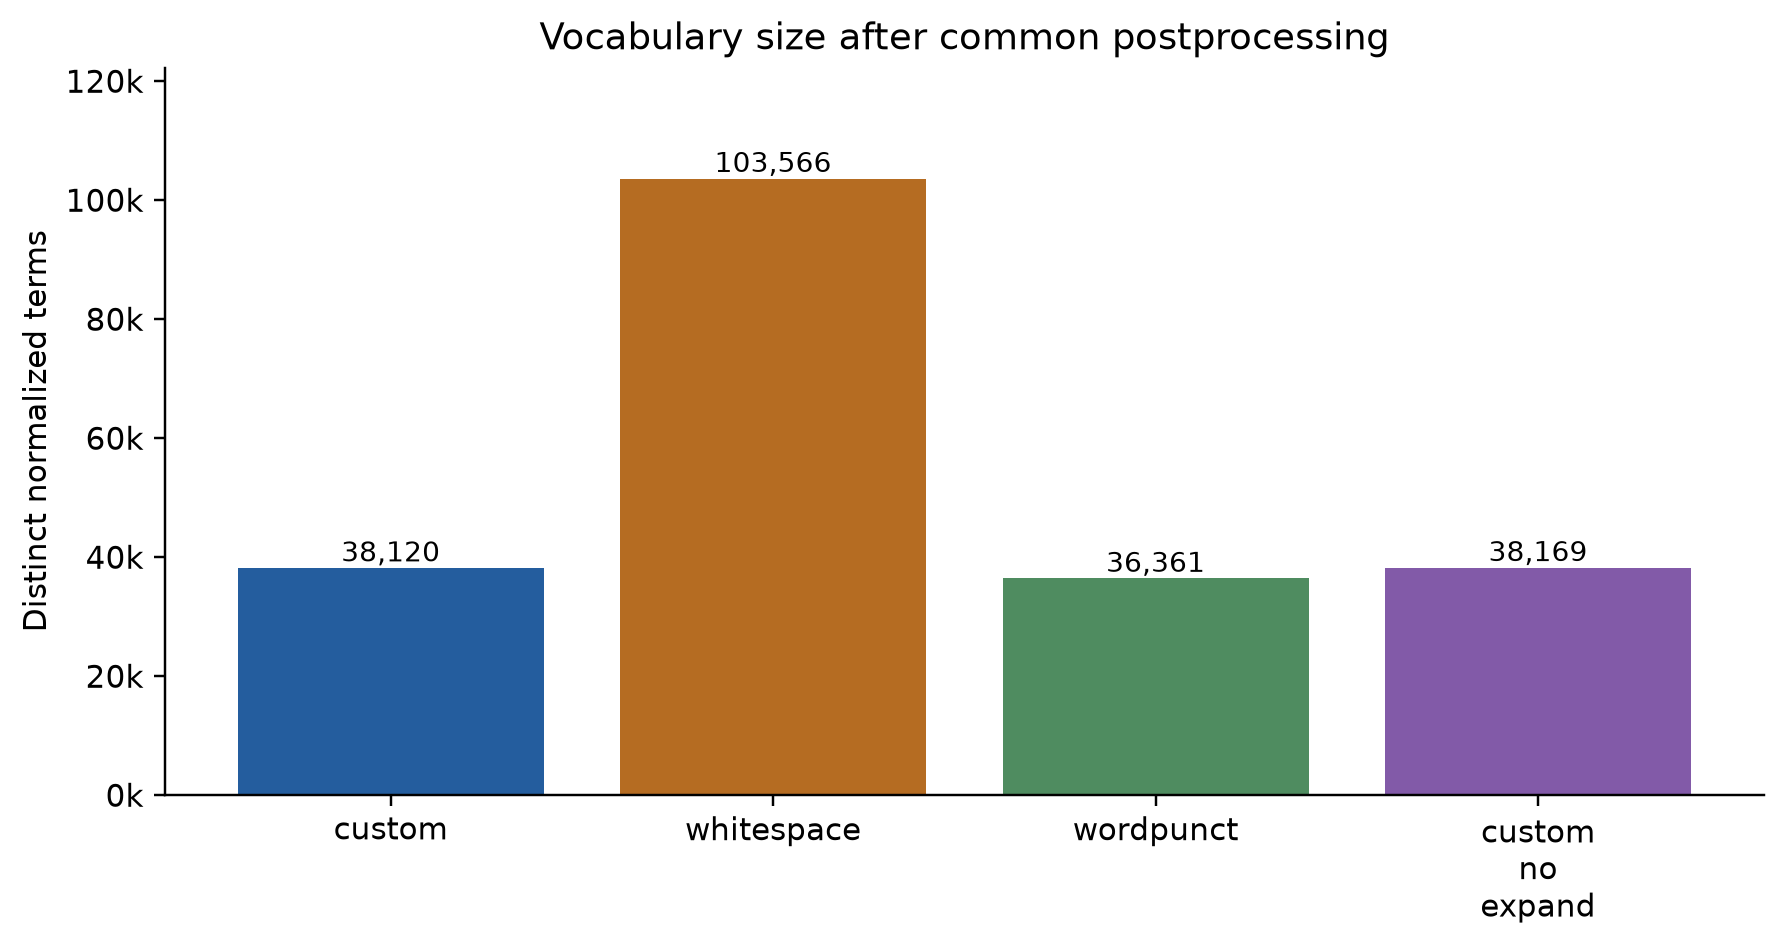
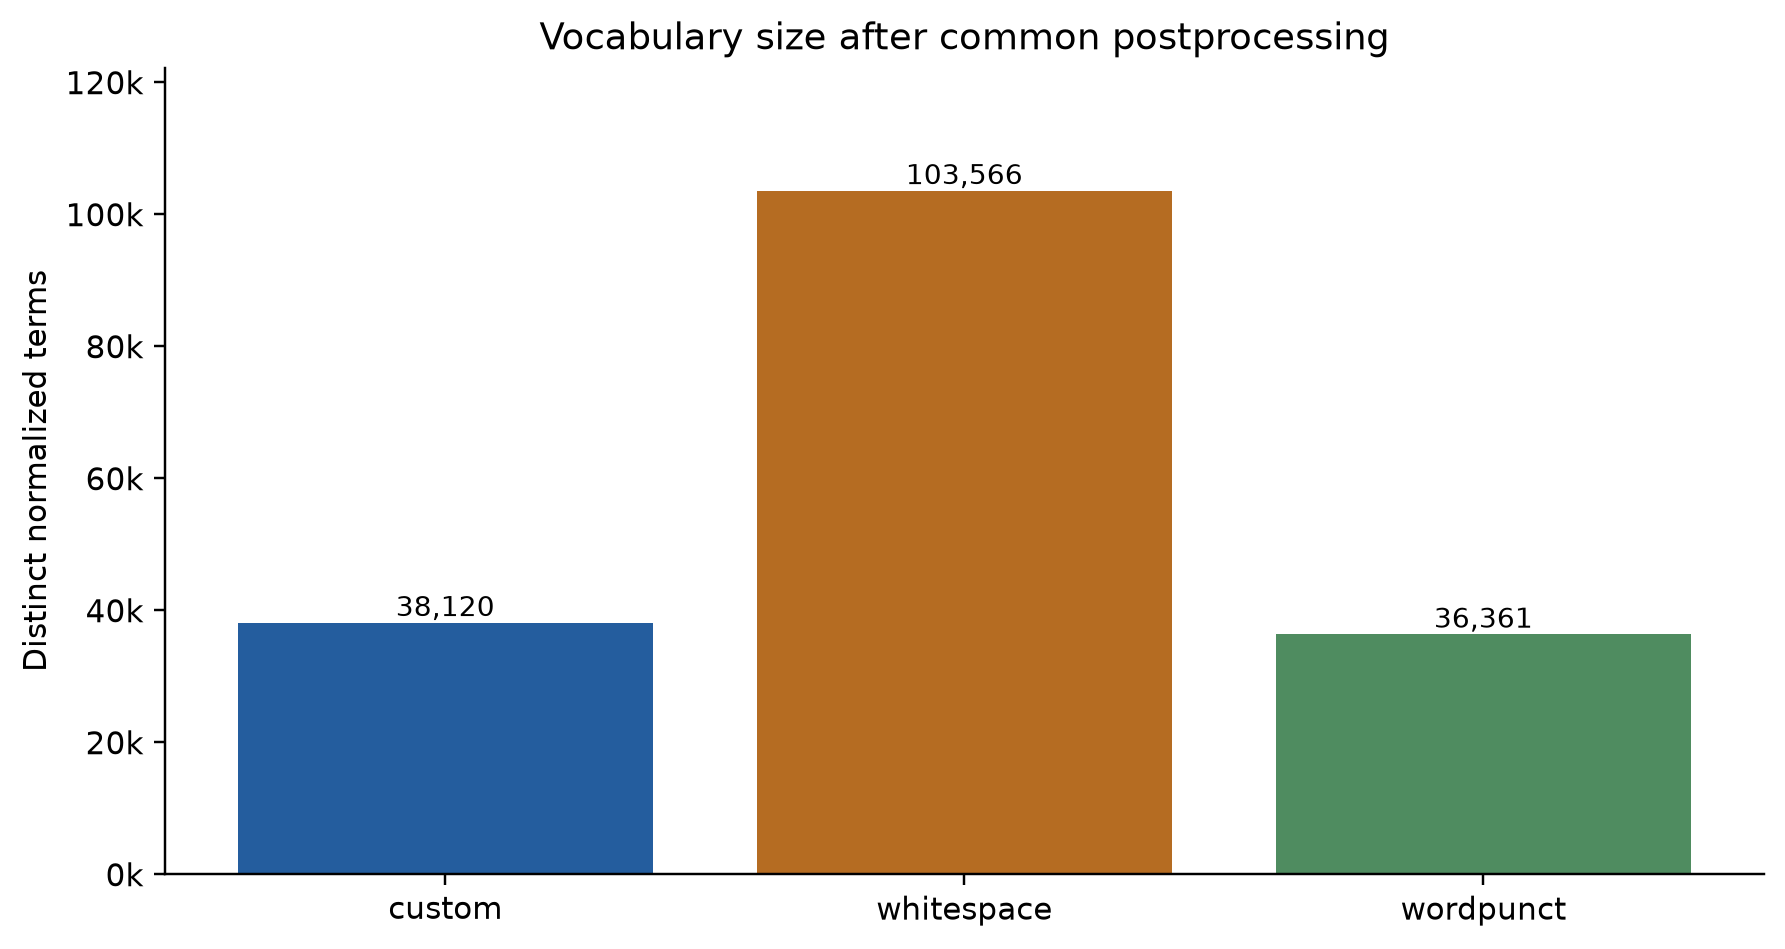
Treat contraction expansion as part of normalization

diff --git a/part1/run.py b/part1/run.py
@@ -24,7 +24,7 @@ from .boundary_cases import CASES
 
 
 ROOT = Path(__file__).resolve().parents[1]
-NAMES = ("custom", "whitespace", "wordpunct", "custom_no_expand")
+NAMES = ("custom", "whitespace", "wordpunct")
 
 
 def dump_json(path, data):
@@ -117,8 +117,7 @@ def build_examples(documents, tokenizers):
 
 
 def analyze(documents):
-    tokenizers = {name: get_tokenizer(name) for name in ("custom", "whitespace", "wordpunct")}
-    tokenizers["custom_no_expand"] = get_tokenizer("custom", expand_contractions=False)
+    tokenizers = {name: get_tokenizer(name) for name in NAMES}
     raw_counts = {name: Counter() for name in NAMES}
     frequencies = {name: Counter() for name in NAMES}
     token_counts, document_types = [], []
@@ -246,8 +245,7 @@ def main():
                    "normalization": "NFC, normalize apostrophes, lowercase lexical terms, expand clear contractions; retain numbers/emoji/emoticons; drop other punctuation-only tokens",
                    "stopwords": "retained", "stemming": False, "lemmatization": False,
                    "ambiguous_forms": "preserve 's, 'd and ain't; no POS/sense guessing",
-                   "baseline_fairness": "Same reviews, NFC and normalize_tokens function. Expansion requires a complete recognized word token.",
-                   "custom_no_expand": "Same custom boundaries and normalization, but contraction expansion disabled"},
+                   "baseline_fairness": "Same reviews, NFC and normalize_tokens function. Expansion requires a complete recognized word token."},
         "tokenizers": comparison, "zipf": zipf, "heaps": heaps,
         "heaps_seed_sensitivity": {"seeds": [r["seed"] for r in seed_results],
                                    "beta_min": min(r["beta"] for r in seed_results),

diff --git a/text_processing/api.py b/text_processing/api.py
@@ -27,15 +27,12 @@ class Tokenizer:
 
     name: str
     _surface_tokenizer: Callable[[str], list[str]] = field(repr=False)
-    expand_contractions: bool = True
 
     def surface_tokens(self, text: str) -> list[str]:
         return self._surface_tokenizer(prepare_text(text))
 
     def tokenize(self, text: str) -> list[str]:
-        return normalize_tokens(
-            self.surface_tokens(text), expand=self.expand_contractions
-        )
+        return normalize_tokens(self.surface_tokens(text))
 
 
 def available_tokenizers() -> tuple[str, ...]:
@@ -43,21 +40,19 @@ def available_tokenizers() -> tuple[str, ...]:
     return tuple(_SURFACE_TOKENIZERS)
 
 
-@lru_cache(maxsize=6)
-def get_tokenizer(
-    name: str = "custom", *, expand_contractions: bool = True
-) -> Tokenizer:
+@lru_cache(maxsize=3)
+def get_tokenizer(name: str = "custom") -> Tokenizer:
     """Select a boundary method; instances are immutable and safe to reuse."""
     if name not in _SURFACE_TOKENIZERS:
         raise ValueError(
             f"Unknown tokenizer {name!r}; choose from {available_tokenizers()}"
         )
-    return Tokenizer(name, _SURFACE_TOKENIZERS[name], expand_contractions)
+    return Tokenizer(name, _SURFACE_TOKENIZERS[name])
 
 
-def tokenize(text: str, *, expand_contractions: bool = True) -> list[str]:
+def tokenize(text: str) -> list[str]:
     """Default custom tokenizer, shared by statistics and search teammates."""
-    return get_tokenizer(expand_contractions=expand_contractions).tokenize(text)
+    return get_tokenizer().tokenize(text)
 
 
 def surface_tokens(text: str) -> list[str]:

diff --git a/tests/test_text_processing.py b/tests/test_text_processing.py
@@ -35,12 +35,11 @@ class SharedTokenizerTests(unittest.TestCase):
         self.assertEqual(get_tokenizer().surface_tokens(text), expected)
         self.assertEqual(tokenize(text), ["do", "not", "the", "best", "food", "😊"])
 
-    def test_expansion_setting_applies_to_factory_and_convenience_function(self):
-        text = "DON’T go"
-        expected = ["don't", "go"]
-        self.assertEqual(get_tokenizer(expand_contractions=False).tokenize(text), expected)
-        self.assertEqual(tokenize(text, expand_contractions=False), expected)
-        self.assertEqual(get_tokenizer().tokenize(text), ["do", "not", "go"])
+    def test_normalization_combines_case_apostrophes_and_contractions(self):
+        text = "DON’T eat CAFÉ food! 😊"
+        expected = ["do", "not", "eat", "café", "food", "😊"]
+        self.assertEqual(get_tokenizer().tokenize(text), expected)
+        self.assertEqual(tokenize(text), expected)
 
     def test_methods_share_unicode_and_case_normalization(self):
         for name in available_tokenizers():

diff --git a/text_processing/normalization.py b/text_processing/normalization.py
@@ -50,7 +50,7 @@ def expand_word(word: str) -> tuple[str, ...]:
 
 
 @lru_cache(maxsize=200_000)
-def normalize_token(token: str, expand: bool = True) -> tuple[str, ...]:
+def normalize_token(token: str) -> tuple[str, ...]:
     """Apply identical postprocessing to each tokenizer's complete tokens.
 
     Keep tokens containing letters/numbers and complete emoji/emoticons.
@@ -64,10 +64,10 @@ def normalize_token(token: str, expand: bool = True) -> tuple[str, ...]:
     token = token.lower()
     if not HAS_LETTER_OR_NUMBER.search(token):
         return ()
-    if expand and WORD_PATTERN.fullmatch(token):
+    if WORD_PATTERN.fullmatch(token):
         return expand_word(token)
     return (token,)
 
 
-def normalize_tokens(tokens: list[str], *, expand: bool = True) -> list[str]:
-    return [term for token in tokens for term in normalize_token(token, expand)]
+def normalize_tokens(tokens: list[str]) -> list[str]:
+    return [term for token in tokens for term in normalize_token(token)]

diff --git a/part1/__main__.py b/part1/__main__.py
@@ -10,11 +10,10 @@ from text_processing import available_tokenizers, get_tokenizer
 def main():
     parser = argparse.ArgumentParser(description=__doc__)
     parser.add_argument("--text", help="Review/query text; otherwise read standard input")
-    parser.add_argument("--keep-contractions", action="store_true")
     parser.add_argument("--tokenizer", choices=available_tokenizers(), default="custom")
     args = parser.parse_args()
     text = args.text if args.text is not None else sys.stdin.read()
-    tokenizer = get_tokenizer(args.tokenizer, expand_contractions=not args.keep_contractions)
+    tokenizer = get_tokenizer(args.tokenizer)
     print(json.dumps({"surface_tokens": tokenizer.surface_tokens(text),
                       "normalized_terms": tokenizer.tokenize(text)},
                      ensure_ascii=False, indent=2))

diff --git a/part1/tests/test_tokenizer.py b/part1/tests/test_tokenizer.py
@@ -1,8 +1,6 @@
 import unittest
 
 from part1.tokenizer import scan, tokenize
-
-
 from part1.boundary_cases import CASES
 
 
@@ -16,8 +14,8 @@ class TokenizerTests(unittest.TestCase):
         self.assertEqual(scan("Don't miss the-best-food 😊!"),
                          ["Don't", "miss", "the", "best", "food", "😊", "!"])
 
-    def test_expansion_can_be_disabled(self):
-        self.assertEqual(tokenize("Don't go", expand_contractions=False), ["don't", "go"])
+    def test_normalization_includes_contractions(self):
+        self.assertEqual(tokenize("DON’T go!"), ["do", "not", "go"])
 
     def test_type_error(self):
         with self.assertRaises(TypeError):

diff --git a/part1/plots.py b/part1/plots.py
@@ -6,7 +6,7 @@ import matplotlib.pyplot as plt
 from matplotlib.ticker import FuncFormatter
 import numpy as np
 
-COLORS = {"custom": "#245D9E", "whitespace": "#B56C22", "wordpunct": "#4F8C60", "custom_no_expand": "#825AA8"}
+COLORS = {"custom": "#245D9E", "whitespace": "#B56C22", "wordpunct": "#4F8C60"}
 
 
 def save_figure(fig, output, stem):

diff --git a/part1/README.md b/part1/README.md
@@ -32,7 +32,7 @@ surface_tokens:   ["I", "don't", "like", "the", "best", "food", "😊", "!"]
 normalized_terms: ["i", "do", "not", "like", "the", "best", "food", "😊"]
 ```
 
-需要做归一化时，使用 `normalized_terms`；查看原始分词边界时，使用 `surface_tokens`。命令行加 `--tokenizer whitespace` 或 `--tokenizer wordpunct` 可以换方法；缩写展开默认开启，加 `--keep-contractions` 可单独关闭。
+需要做归一化时，使用 `normalized_terms`；查看原始分词边界时，使用 `surface_tokens`。命令行加 `--tokenizer whitespace` 或 `--tokenizer wordpunct` 可以换方法。
 
 自写规则会保留完整 emoji、ASCII 表情和小数，拆开连字符。归一化时统一 Unicode 等价写法和撇号，把普通词转成小写，再展开明确的缩写。`she's`、`I'd` 这类有歧义的形式保留。停用词也保留，不做词干提取或词形还原。代码在 `text_processing/`，其他组员可以直接复用。
 
@@ -42,7 +42,7 @@ normalized_terms: ["i", "do", "not", "like", "the", "best", "food", "😊"]
 
 - `zipf`：词频与排名的双对数图。
 - `heaps`：词表随文本量增长的曲线。
-- `tokenizer_comparison`：不同分词设置的词表大小。
+- `tokenizer_comparison`：三种分词器的词表大小。
 
 对应的表格是：
 

diff --git a/README.md b/README.md
@@ -31,9 +31,9 @@ print(terms)
 
 `custom` 是自写正则分词器，也可以换成 `whitespace` 或 `wordpunct`。
 
-需要做归一化时，调用 `tokenizer.tokenize(text)`；查看原始分词边界时，调用 `tokenizer.surface_tokens(text)`。缩写展开默认开启，可以通过 `get_tokenizer("custom", expand_contractions=False)` 单独关闭。
+需要做归一化时，调用 `tokenizer.tokenize(text)`；查看原始分词边界时，调用 `tokenizer.surface_tokens(text)`。归一化包括 Unicode 等价写法和撇号统一、小写转换、明确缩写的展开及纯标点过滤。
 
-做搜索时，评论和查询要用同一种分词器、同一套设置；换设置后需要重新建索引。做情感分析时，可以直接读取原始评论，保留标点和大小写。
+做搜索时，评论和查询要用同一种分词器；换方法后需要重新建索引。做情感分析时，可以直接读取原始评论，保留标点和大小写。
 
 ## 文件放在哪里
 
